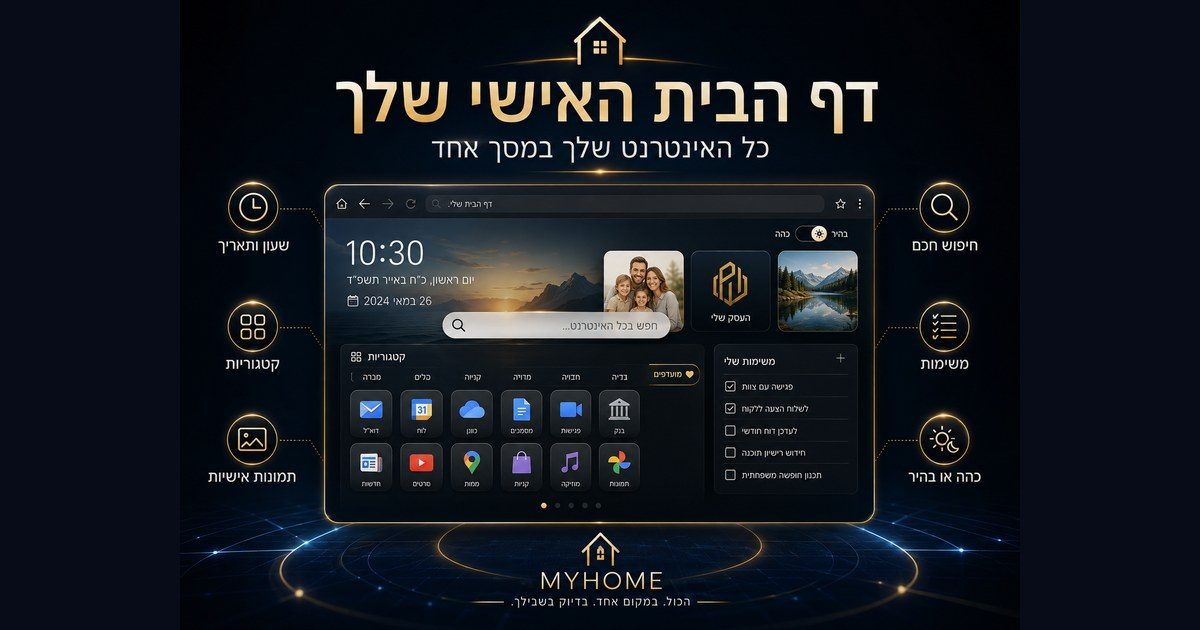
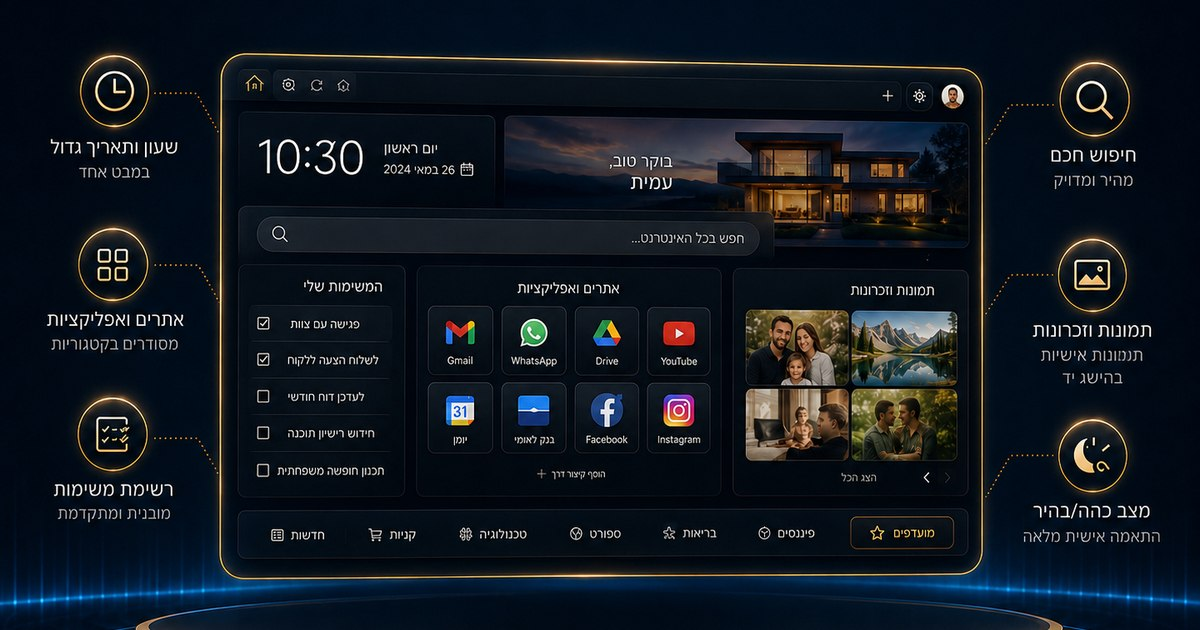
Homepage: rebuild product page around 4 new brand/feature images

diff --git a/projects/homepage/index.html b/projects/homepage/index.html
@@ -85,7 +85,13 @@ header.nav{position:sticky;top:0;z-index:100;background:rgba(11,15,28,0.9);backd
 /* OVERVIEW graphic */
 .overview{max-width:1060px;margin:0 auto;border-radius:22px;overflow:hidden;border:1px solid var(--border);box-shadow:0 30px 70px rgba(0,0,0,.55)}
 .overview img{width:100%;display:block}
-.myhome-logo{width:min(360px,76vw);height:auto;margin:0 auto 20px;display:block;border-radius:16px;filter:drop-shadow(0 16px 38px rgba(0,0,0,.55))}
+/* HERO title banner */
+.hero-banner{max-width:1000px;margin:0 auto 22px;border-radius:22px;overflow:hidden;border:1px solid var(--border);box-shadow:0 30px 80px rgba(0,0,0,.6),0 0 70px rgba(45,212,191,.14)}
+.hero-banner img{width:100%;display:block}
+/* MYHOME brand banner */
+.brandwrap{padding:12px 0 4px}
+.brand-banner{max-width:1060px;margin:0 auto;border-radius:22px;overflow:hidden;border:1px solid var(--border);box-shadow:0 30px 70px rgba(0,0,0,.55),0 0 60px rgba(124,131,255,.14)}
+.brand-banner img{width:100%;display:block}
 
 /* SECTIONS */
 section{padding:46px 0}
@@ -185,8 +191,8 @@ footer{border-top:1px solid var(--border);padding:40px 0;background:#080b16}
 <!-- HERO -->
 <header class="phero">
   <div class="wrap">
-    <img class="myhome-logo" src="../img/myhome-logo.png" alt="MYHOME — דף הבית האישי שלך">
-    <h1 class="sr-only">MYHOME — דף הבית האישי שלך · כל האינטרנט שלך במסך אחד</h1>
+    <h1 class="sr-only">דף הבית האישי שלך — כל האינטרנט שלך במסך אחד</h1>
+    <div class="hero-banner"><img src="../img/home-banner-title.jpg" alt="דף הבית האישי שלך — כל האינטרנט שלך במסך אחד"></div>
     <p class="lead">נמאס לחפש כל פעם את אותם אתרים? להקליד כתובות? להתבלבל בין לשוניות? אני מעצב לך <strong>דף בית אישי</strong> — מרכז שליטה יפהפה ומהיר שנפתח בכל פעם שאתה פותח את הדפדפן. מותאם בדיוק אליך: הצבעים שלך, הלוגו שלך, האתרים שלך.</p>
     <div class="row">
       <a class="btn btn-primary" href="#contact">✨ רוצה דף כזה</a>
@@ -195,12 +201,17 @@ footer{border-top:1px solid var(--border);padding:40px 0;background:#080b16}
   </div>
 </header>
 
-<!-- MARKETING GRAPHIC (at the beginning) -->
-<div class="shotwrap">
+<!-- SHOWCASE 1 -->
+<section>
   <div class="wrap">
-    <div class="overview"><img src="../img/home-overview.jpg" alt="דף הבית האישי — כל היכולות במסך אחד: שעון, חיפוש, קטגוריות, משימות, תמונות ומצב כהה/בהיר"></div>
+    <div class="sec-head">
+      <span class="eyebrow">👀 מבט מקרוב</span>
+      <h2>כל מה שחשוב לך — במסך אחד</h2>
+      <p>שעון ותאריך, חיפוש חכם, האתרים שלך בקטגוריות, תמונות אישיות, משימות — ומצב כהה או בהיר.</p>
+    </div>
+    <div class="overview"><img src="../img/home-features1.jpg" alt="דף הבית האישי — שעון ותאריך, קטגוריות, תמונות אישיות, חיפוש חכם, משימות ומצב כהה/בהיר"></div>
   </div>
-</div>
+</section>
 
 <!-- FEATURES -->
 <section class="alt" id="features">
@@ -221,32 +232,15 @@ footer{border-top:1px solid var(--border);padding:40px 0;background:#080b16}
   </div>
 </section>
 
-<!-- MARKETING GRAPHIC 2 (personalization angle) -->
-<section>
-  <div class="wrap">
-    <div class="sec-head">
-      <span class="eyebrow">🎨 מותאם אליך</span>
-      <h2>הכול בסגנון שלך — במסך אחד</h2>
-    </div>
-    <div class="overview">
-      <img src="../img/home-graphic-1.jpg" alt="דף הבית האישי — שעון ותאריך, חיפוש, קטגוריות, משימות, תמונות אישיות ומצב כהה/בהיר" loading="lazy">
-    </div>
-  </div>
-</section>
-
-<!-- REAL PEEK (MYHOME.png) -->
+<!-- SHOWCASE 2 (personalization angle) -->
 <section class="alt">
   <div class="wrap">
     <div class="sec-head">
-      <span class="eyebrow">👀 הצצה לדף האמיתי</span>
-      <h2>ככה נראה הדף שאיתו אני עובד</h2>
-      <p>לא הדמיה — צילום מסך אמיתי מהדף האישי שלי, בשימוש יומיומי.</p>
+      <span class="eyebrow">🎨 מותאם אליך</span>
+      <h2>ברכת בוקר אישית — וכל האפליקציות שלך</h2>
+      <p>פתיחה עם שם, האפליקציות והאתרים שאתה באמת משתמש בהם, וגלריית זיכרונות אישית.</p>
     </div>
-    <div class="shot">
-      <div class="shot-bar"><i class="r"></i><i class="y"></i><i class="g"></i><span>MYHOME — כרטיסייה חדשה</span></div>
-      <div class="shot-body"><img src="../img/home-hero.jpg?v=2" alt="דף הבית האישי — שעון, חיפוש, הפרויקטים שלך והמשימות" onerror="this.parentNode.classList.add('empty')"></div>
-    </div>
-    <div class="shot-cap">מרכז שליטה אחד — שעון, חיפוש, וכל האתרים שלך מסודרים בקטגוריות עם הלוגו האמיתי</div>
+    <div class="overview"><img src="../img/home-features2.jpg" alt="דף הבית האישי — ברכת בוקר אישית, אפליקציות ואתרים בקטגוריות וגלריית תמונות"></div>
   </div>
 </section>
 
@@ -279,6 +273,13 @@ footer{border-top:1px solid var(--border);padding:40px 0;background:#080b16}
     </div>
   </div>
 </section>
+
+<!-- BRAND BANNER -->
+<div class="brandwrap">
+  <div class="wrap">
+    <div class="brand-banner"><img src="../img/home-banner-myhome.jpg" alt="MYHOME — הכול. במקום אחד. בדיוק בשבילך."></div>
+  </div>
+</div>
 
 <!-- CTA -->
 <section id="contact">
